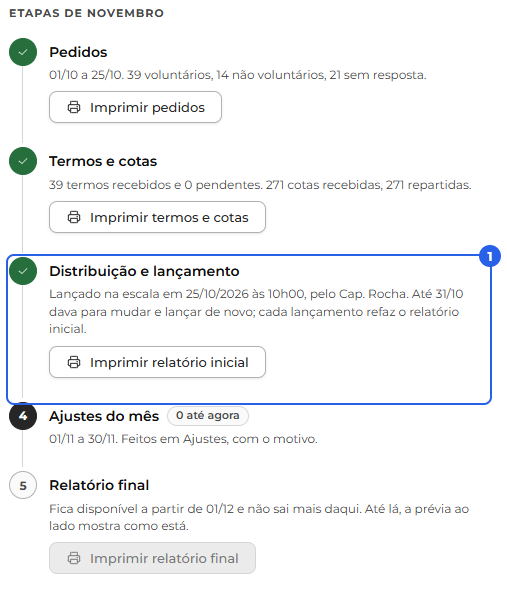
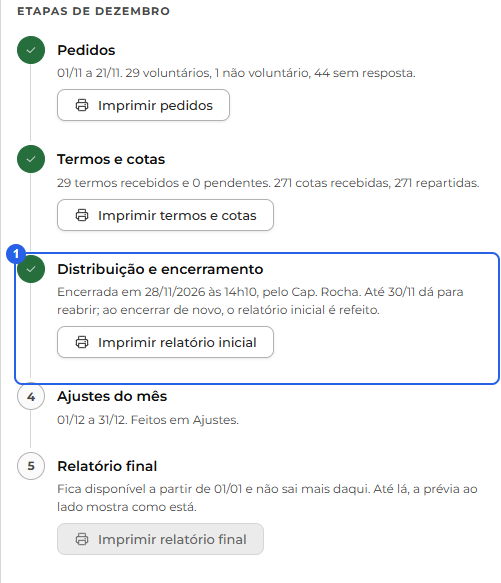
1

diff --git a/paginas/manual.html b/paginas/manual.html
@@ -98,7 +98,7 @@
                 <li class="manual-admin"><a class="lista-item lista-item--clicavel manual-item manual-item--sub" href="#extra-cotas">Pedidos, termos e cotas</a></li>
                 <li class="manual-admin"><a class="lista-item lista-item--clicavel manual-item manual-item--sub" href="#extra-distribuir">Distribuir a extra do mês</a></li>
                 <li class="manual-admin"><a class="lista-item lista-item--clicavel manual-item manual-item--sub" href="#extra-painel">O painel do dia</a></li>
-                <li class="manual-admin"><a class="lista-item lista-item--clicavel manual-item manual-item--sub" href="#extra-lancar">Lançar na escala e ajustar</a></li>
+                <li class="manual-admin"><a class="lista-item lista-item--clicavel manual-item manual-item--sub" href="#extra-lancar">Lançar na escala, encerrar e ajustar</a></li>
                 <li class="manual-admin"><a class="lista-item lista-item--clicavel manual-item manual-item--sub" href="#extra-relatorios">Relatórios</a></li>
               </ul>
             </li>
@@ -2057,7 +2057,7 @@
 
               <div class="manual-admin manual-zona-admin">
                 <h3 id="extra-organizar">Organizar o mês <span class="manual-selo-admin">Apenas administradores</span></h3>
-                <p>A aba <strong>Organizar o mês</strong> aparece para o administrador da companhia, inclusive o de um pelotão, e vale para a companhia inteira; ela fica só no computador. Ela guia o mês em <strong>cinco passos</strong>, na barra: <strong>Pedidos</strong>, <strong>Cotas</strong>, <strong>Distribuição</strong>, <strong>Ajustes</strong> e <strong>Relatórios</strong>. O número fica verde no passo feito e escuro no passo da vez. À direita, o menu <strong>Ações</strong> traz o que o passo aberto faz; o que ainda não pode ser feito fica apagado, com o motivo escrito embaixo. A <strong>Legenda</strong> resume as regras de cada passo.</p>
+                <p>A aba <strong>Organizar o mês</strong> aparece para o administrador da companhia, inclusive o de um pelotão, e vale para a companhia inteira; ela fica só no computador. Ela guia o mês em <strong>cinco passos</strong>, na barra: <strong>Pedidos</strong>, <strong>Cotas</strong>, <strong>Distribuição</strong>, <strong>Ajustes</strong> e <strong>Relatórios</strong>. O número fica verde no passo feito e escuro no passo da vez. À direita, ficam os botões do que o passo aberto faz; o que ainda não pode ser feito fica apagado, e a nota ou o rodapé da tela dizem por quê. A <strong>Legenda</strong> resume as regras de cada passo.</p>
                 <figure class="manual-figura">
                   <img src="manual/imagens/extra-passos.png" width="542" height="57" alt="Os cinco passos do mês na barra: Pedidos e Cotas feitos, com o número verde (1), e a Distribuição, o passo da vez, com o número escuro (2)." />
                   <figcaption>
@@ -2068,13 +2068,13 @@
                   </figcaption>
                 </figure>
                 <p>Na aba <strong>Extras do mês</strong>, o administrador vê também a distribuição que ainda não foi lançada, com o aviso "O mês ainda está em distribuição e não foi lançado. As datas podem mudar até o lançamento.".</p>
-                <p><strong>Os meses de janeiro a setembro de 2026.</strong> A escala desses meses não está no sistema; deles ficaram guardados só os pedidos e as cotas que cada voluntário recebeu. Eles servem só para ver quanto cada um pediu e recebeu. O Organizar o mês abre nas <strong>Cotas</strong>: o total da companhia é a soma do que cada um recebeu, e cada voluntário mostra a fila, quanto pediu, o atendimento nos 12 meses antes e quanto recebeu, sem nada para mudar. Nos <strong>Pedidos</strong> fica só a lista dos voluntários, com as cotas que pediram. A <strong>Distribuição</strong>, os <strong>Ajustes</strong> e os <strong>Relatórios</strong> dizem "Mês antes da escala no sistema.". Não há Ações, Legenda nem Salvar nesses meses. Quem pediu naquele mês e hoje é oficial também aparece, só para ver.</p>
+                <p><strong>Os meses de janeiro a setembro de 2026.</strong> A escala desses meses não está no sistema; deles ficaram guardados só os pedidos e as cotas que cada voluntário recebeu. Eles servem só para ver quanto cada um pediu e recebeu. O Organizar o mês abre nas <strong>Cotas</strong>: o total da companhia é a soma do que cada um recebeu, e cada voluntário mostra a fila, quanto pediu, o atendimento nos 12 meses antes e quanto recebeu, sem nada para mudar. Nos <strong>Pedidos</strong> fica só a lista dos voluntários, com as cotas que pediram. A <strong>Distribuição</strong>, os <strong>Ajustes</strong> e os <strong>Relatórios</strong> dizem "Mês antes da escala no sistema.". Não há os botões do passo, a Legenda nem o Salvar nesses meses. Quem pediu naquele mês e hoje é oficial também aparece, só para ver.</p>
 
                 <h3 id="extra-cotas">Pedidos, termos e cotas <span class="manual-selo-admin">Apenas administradores</span></h3>
                 <p><strong>1 Pedidos.</strong> A linha do alto resume o mês: o prazo, quantos responderam, quantos são voluntários, quantos não querem e quantos estão sem resposta. O <strong>Prazo do pedido</strong> tem <strong>Abre em</strong>, <strong>Fecha em</strong> e <strong>Avisar quem não respondeu</strong> (quantos dias antes de fechar), e o pedido sempre fecha antes de o mês começar.</p>
                 <p>Em <strong>Mínimo de dias "Quero"</strong>, o <strong>Exigir mínimo?</strong> diz se o mês exige um número de dias. Com <strong>Não</strong>, o resto some e cada voluntário marca quantos quiser. Com <strong>Sim</strong>, <strong>Todos os voluntários</strong> é esse número, de 1 a 5 dias. Em <strong>Exceções</strong>, que mostra quantas há e abre pela seta, <strong>Adicionar exceção</strong> dá um número diferente a um militar ou a <strong>Todo o efetivo administrativo</strong>. A exceção com o nome do militar vale antes da do efetivo administrativo, e ninguém precisa marcar mais do que os dias livres que tem. Cada mês tem o seu mínimo, e o mês novo começa com os valores do anterior. Quem já enviou o pedido não é afetado: o novo mínimo só conta se ele alterar o pedido. Com os pedidos fechados, o mínimo fica só para ler.</p>
-                <p>Ao lado ficam as três listas: <strong>Voluntários</strong>, <strong>Não querem</strong> e <strong>Sem resposta</strong>. Na lista de voluntários, cada militar mostra as cotas e os dias do mês: <strong>Quer</strong> e <strong>Não quer</strong> são os dias que ele marcou no pedido, e <strong>Não pode</strong> são os dias de folga, férias, licença, dispensa ou Litoral dele. Pare o mouse em cima de uma data de <strong>Não pode</strong> para ver o motivo. Em <strong>Sem resposta</strong>, quem não tem nenhum dia livre no mês aparece com <strong>Sem dia livre</strong> na coluna <strong>Não pode</strong>: ele não tem pedido a fazer, e esse mês fica fora da fila, mas continua contado entre os sem resposta na linha do alto. Marque o <strong>Termo</strong> de quem entregou o termo pelo eProtocolo. Sem o termo, o militar fica fora das cotas e da distribuição, e as extras que ele já tinha saem. O prazo, o mínimo e os termos só valem depois do <strong>Salvar</strong> do rodapé; o <strong>Cancelar</strong> desfaz o que ainda não foi salvo. <strong>Ações › Fechar os pedidos agora</strong> fecha o pedido antes do prazo.</p>
-                <p><strong>2 Cotas.</strong> Com os pedidos fechados, digite o total de cotas que a companhia recebeu. A companhia reparte <strong>entre todos</strong> (uma fila só, da companhia) ou <strong>por unidade</strong> (cada unidade com o seu total e a sua fila), como escolheu nos Ajustes, na aba Extrajornada (veja <strong>As regras da Extrajornada</strong>). Cada unidade é um bloco, com o <strong>Recebe</strong> de cada voluntário. <strong>Ações › Preencher pela sugestão</strong> reparte de forma justa: todos recebem o mesmo número, com no máximo 1 de diferença, ninguém recebe mais do que pediu, e a cota que sobra vai para quem foi menos atendido nos últimos 12 meses (no empate, o mais antigo); quem pediu 24 horas seguidas fica com 4 ou nenhuma. O <strong>Recebe</strong> de cada um você pode mudar, de zero a 10, mesmo acima do que ele pediu. Se der a quem pediu 24 horas seguidas um número que não fecha de 4 em 4 (menos de 4, ou 6, ou 10), o sistema coloca só os dias inteiros de 24 horas: o resto você coloca na Distribuição, e o Lançar só libera com todas colocadas. O total entregue não passa do recebido: se passar, o número fica vermelho e o Salvar trava.</p>
+                <p>Ao lado ficam as três listas: <strong>Voluntários</strong>, <strong>Não querem</strong> e <strong>Sem resposta</strong>. Na lista de voluntários, cada militar mostra as cotas e os dias do mês: <strong>Quer</strong> e <strong>Não quer</strong> são os dias que ele marcou no pedido, e <strong>Não pode</strong> são os dias de folga, férias, licença, dispensa ou Litoral dele. Pare o mouse em cima de uma data de <strong>Não pode</strong> para ver o motivo. Em <strong>Sem resposta</strong>, quem não tem nenhum dia livre no mês aparece com <strong>Sem dia livre</strong> na coluna <strong>Não pode</strong>: ele não tem pedido a fazer, e esse mês fica fora da fila, mas continua contado entre os sem resposta na linha do alto. Marque o <strong>Termo</strong> de quem entregou o termo pelo eProtocolo. Sem o termo, o militar fica fora das cotas e da distribuição, e as extras que ele já tinha saem. O prazo, o mínimo e os termos só valem depois do <strong>Salvar</strong> do rodapé; o <strong>Cancelar</strong> desfaz o que ainda não foi salvo. <strong>Fechar os pedidos agora</strong>, na barra, fecha o pedido antes do prazo; o botão aparece só enquanto os pedidos estão abertos.</p>
+                <p><strong>2 Cotas.</strong> Com os pedidos fechados, digite o total de cotas que a companhia recebeu. A companhia reparte <strong>entre todos</strong> (uma fila só, da companhia) ou <strong>por unidade</strong> (cada unidade com o seu total e a sua fila), como escolheu nos Ajustes, na aba Extrajornada (veja <strong>As regras da Extrajornada</strong>). Cada unidade é um bloco, com o <strong>Recebe</strong> de cada voluntário. <strong>Preencher pela sugestão</strong>, na barra, reparte de forma justa: todos recebem o mesmo número, com no máximo 1 de diferença, ninguém recebe mais do que pediu, e a cota que sobra vai para quem foi menos atendido nos últimos 12 meses (no empate, o mais antigo); quem pediu 24 horas seguidas fica com 4 ou nenhuma. O <strong>Recebe</strong> de cada um você pode mudar, de zero a 10, mesmo acima do que ele pediu. Se der a quem pediu 24 horas seguidas um número que não fecha de 4 em 4 (menos de 4, ou 6, ou 10), o sistema coloca só os dias inteiros de 24 horas: o resto você coloca na Distribuição, e o Lançar só libera com todas colocadas. O total entregue não passa do recebido: se passar, o número fica vermelho e o Salvar trava.</p>
                 <figure class="manual-figura manual-figura--cheia">
                   <img src="manual/imagens/extra-cotas.png" width="822" height="73" alt="O alto do passo Cotas: o total de cotas recebidas (1), com as cotas entregues, as que sobram e as que estão na escala, e a caixa Sugestão do sistema apenas com números pares, marcada (2)." />
                   <figcaption>
@@ -2124,7 +2124,7 @@
                   </figcaption>
                 </figure>
                 <p><strong>Pelo militar.</strong> Clique num voluntário da lista: embaixo do nome abrem as datas dele, cada uma com a barra de horário, e o calendário passa a mostrar só ele. Onde ele tem extra, fica o cartão dele; onde não tem, só a bolinha do pedido: verde no dia que quer, vermelha no que não quer e cinza sem preferência. O dia em que ele não pode fica apagado, com o motivo. Clique no cartão ou na bolinha para abrir a barra de horário embaixo dele e pôr ou tirar horas. Um novo clique no nome, um clique fora ou o Esc voltam ao mês inteiro.</p>
-                <p><strong>Ações › Preencher pela sugestão</strong> preenche o mês de uma vez, com as regras da companhia (veja <strong>As regras da Extrajornada</strong>, nos Ajustes). O cálculo testa todas as combinações e pode levar alguns minutos. Enquanto isso, a tela fica escurecida, com os passos do cálculo e o <strong>Cancelar</strong>; se ele não terminar, a tela oferece <strong>Tentar de novo</strong>. Ele nunca quebra as regras: só praça voluntária com termo, no dia em que ela está livre e não disse que não quer, sem passar da cota, sem 1 cota sozinha, sem 4 dias seguidos no quartel e com a bombeira só nos pelotões marcados. Para quem pediu 24 horas seguidas, ele só põe as 24 horas inteiras. Entre o que cabe, ele segue a ordem das regras: cobre primeiro a falta de gente (o vermelho antes do amarelo, na ordem dos pelotões; no mesmo pelotão, o dia que falta 2 antes do dia que falta 1), põe a extra só onde falta gente (a cota que não fecha falta fica para você), fora da cidade da companhia dá a extra inteira, de 24 horas, a quem é de outro pelotão (ele só quebra quando não há outro jeito), deixa cada um no seu pelotão (quem vai para outro é o mais moderno ou o da vez no rodízio), segue a fila ou a antiguidade e, por último, a balança: blocos de 24 horas, a extra colada ao serviço e o dia que o militar quer. As extras que <strong>você</strong> pôs ou mudou ficam travadas: a sugestão refaz só as do sistema. O <strong>Desfazer</strong> do rodapé volta a sugestão inteira de uma vez.</p>
+                <p><strong>Preencher pela sugestão</strong>, na barra, preenche o mês de uma vez, com as regras da companhia (veja <strong>As regras da Extrajornada</strong>, nos Ajustes). O cálculo testa todas as combinações e pode levar alguns minutos. Enquanto isso, a tela fica escurecida, com os passos do cálculo e o <strong>Cancelar</strong>; se ele não terminar, a tela oferece <strong>Tentar de novo</strong>. Ele nunca quebra as regras: só praça voluntária com termo, no dia em que ela está livre e não disse que não quer, sem passar da cota, sem 1 cota sozinha, sem 4 dias seguidos no quartel e com a bombeira só nos pelotões marcados. Para quem pediu 24 horas seguidas, ele só põe as 24 horas inteiras. Entre o que cabe, ele segue a ordem das regras: cobre primeiro a falta de gente (o vermelho antes do amarelo, na ordem dos pelotões; no mesmo pelotão, o dia que falta 2 antes do dia que falta 1), põe a extra só onde falta gente (a cota que não fecha falta fica para você), fora da cidade da companhia dá a extra inteira, de 24 horas, a quem é de outro pelotão (ele só quebra quando não há outro jeito), deixa cada um no seu pelotão (quem vai para outro é o mais moderno ou o da vez no rodízio), segue a fila ou a antiguidade e, por último, a balança: blocos de 24 horas, a extra colada ao serviço e o dia que o militar quer. As extras que <strong>você</strong> pôs ou mudou ficam travadas: a sugestão refaz só as do sistema. Dá para usar mesmo com mudança ainda não salva (por exemplo, pôr alguém fixo e depois rodar): o que está na tela fica, e só o <strong>Salvar</strong> grava. O <strong>Desfazer</strong> do rodapé volta a sugestão inteira de uma vez. Depois de a distribuição ser encerrada, ou de o mês começar, o botão some ou fica apagado.</p>
 
                 <h3 id="extra-painel">O painel do dia <span class="manual-selo-admin">Apenas administradores</span></h3>
                 <p>Clique num dia do calendário para abrir o painel do dia à direita. No alto, a <strong>Cobertura do dia</strong> mostra as barras sem extra e com extra; pela seta, ela abre o <strong>relatório do dia</strong>, que diz quem foi posto, por quê, o que ainda falta e os erros da escala que a extra não resolve, como alguém sem função. Embaixo do título ficam as abas <strong>Extrajornada</strong> e <strong>Funções</strong>: a Funções mostra a escala do dia por posto e função, como no painel do dia da Escala, só para ver; a aba escolhida continua quando você abre outro dia. Embaixo vêm os grupos: <strong>Neste dia</strong>, <strong>Querem este dia</strong>, <strong>Sem preferência</strong>, <strong>Não querem este dia</strong> e <strong>Indisponíveis</strong>, com o motivo, como "Serviço" ou "Férias". Quem está de serviço e marcou Quero naquele dia aparece como "Serviço, quer este dia": ele só pode tirar a extra depois de fazer a troca. A folga do banco de horas não impede a extra, nem no próprio pelotão. Quem está de folga ou é pontual só numa parte do dia aparece disponível, com "De serviço das 20h às 08h. A extra só nas outras horas." embaixo do nome e essas horas em cinza na barra.</p>
@@ -2162,20 +2162,21 @@
                   </figcaption>
                 </figure>
 
-                <h3 id="extra-lancar">Lançar na escala e ajustar <span class="manual-selo-admin">Apenas administradores</span></h3>
-                <p><strong>Ações › Lançar na escala e encerrar</strong> abre a conferência à direita e, com <strong>Lançar e encerrar</strong>, põe as extras do mês na escala. Cada extra vira serviço, conta na cobertura e entra na distribuição da unidade onde o militar tira a extra; o sistema põe as extras de todos os dias e refaz a escala uma vez, do primeiro dia mudado em diante, só nos pelotões em que a extra mudou, porque o rodízio conta quem trabalhou: os 7 primeiros dias na hora e o resto sozinho. Os outros pelotões ficam como estavam, sem ninguém trocar de função. O lançamento só acontece com todas as cotas colocadas nas datas e antes de o mês começar. Depois dele, a Distribuição fica só para ver.</p>
+                <h3 id="extra-lancar">Lançar na escala, encerrar e ajustar <span class="manual-selo-admin">Apenas administradores</span></h3>
+                <p><strong>Lançar na escala</strong>, o botão escuro da barra (2), abre a conferência à direita e, com <strong>Lançar na escala</strong>, põe as extras do mês na escala. Cada extra vira serviço, conta na cobertura e entra na distribuição da unidade onde o militar tira a extra; o sistema põe as extras de todos os dias e refaz a escala uma vez, do primeiro dia mudado em diante, só nos pelotões em que a extra mudou, porque o rodízio conta quem trabalhou: os 7 primeiros dias na hora e o resto sozinho. Os outros pelotões ficam como estavam, sem ninguém trocar de função. Dá para lançar com tudo salvo e antes de o mês começar, mesmo com cota faltando: o que falta aparece em amarelo na conferência. Depois de lançada, a Distribuição continua mudando, e cada <strong>Salvar e enviar para a escala</strong> vai direto para a escala.</p>
                 <figure class="manual-figura">
-                  <img src="manual/imagens/extra-acoes.png" width="268" height="174" alt="O menu Ações do passo Distribuição: o Lançar na escala e encerrar apagado, com o motivo embaixo (1), e o Reabrir a distribuição (2)." />
+                  <img src="manual/imagens/extra-acoes.png" width="383" height="58" alt="Na barra da Distribuição, o Preencher pela sugestão (1) e o Lançar na escala, o botão escuro (2)." />
                   <figcaption>
                     <ol class="manual-chamadas">
-                      <li>Lançar na escala e encerrar, apagado enquanto falta cota</li>
-                      <li>Reabrir a distribuição</li>
+                      <li>Preencher pela sugestão</li>
+                      <li>Lançar na escala, que depois vira Encerrar a distribuição</li>
                     </ol>
                   </figcaption>
                 </figure>
-                <p><strong>Ações › Reabrir a distribuição</strong> volta a liberar a Distribuição, até o mês começar. Enquanto ela está reaberta, a escala continua com o que foi lançado; o novo lançamento leva o que mudou.</p>
-                <p><strong>4 Ajustes.</strong> Depois do lançamento, as mudanças se fazem nos Ajustes, na mesma tela da Distribuição. Clique em <strong>Salvar e enviar para a escala</strong>: a mudança vai direto para a escala, que é refeita do dia mudado em diante (os 7 primeiros dias na hora, o resto sozinho), fica registrada com o que era, o que ficou e quem fez, e o militar recebe um aviso no sino. Os ajustes vão até 7 dias atrás: o dia mais antigo fica só para ver. Nos Ajustes, a cor de cada dia e a barra "com extra" são as da Escala de verdade; na Distribuição, antes de lançar, elas são uma previsão, que já considera a CNH de quem dirige e o ideal de cada posto. Os mesmos ajustes também se fazem pela Escala: veja <strong>Editar a extra pela Escala</strong>.</p>
-                <p><strong>As cotas que faltam distribuir.</strong> Se, depois do lançamento, um militar fica com menos cotas nas datas do que recebeu, o sistema avisa o administrador da companhia em três lugares: a nota vermelha na Escala, embaixo da barra do mês (1); a mesma nota no alto da Distribuição e dos Ajustes; e uma linha em <strong>Pendências</strong>, no <strong>Para corrigir</strong>. Na Escala, a nota aparece em Mês, Militares e Colunas, só no mês que está na tela, e só avisa: para resolver, use os Ajustes ou a aba Extrajornada do painel do dia. A linha das Pendências leva direto aos Ajustes do mês, com o militar já em foco quando é um só. O <strong>X</strong> (2) esconde a nota até você recarregar a página ou entrar nela de novo; antes disso, ela só volta se o número mudar. No celular, a linha das Pendências só informa, porque o Organizar o mês não existe lá.</p>
+                <p>Depois de lançada, o botão escuro vira <strong>Encerrar a distribuição</strong>. Ele só liga com tudo salvo e com todas as cotas nas datas; enquanto falta alguma, a nota amarela no alto diz quantas. Ao encerrar, a distribuição desse momento vira o relatório inicial, a Distribuição fica só para ver e as mudanças passam a ser feitas nos Ajustes. Se ninguém encerrar, o sistema faz sozinho na virada do mês: lança, se ainda não foi lançada, e encerra. Com cota faltando, ela fica aberta, com o aviso vermelho, até as cotas estarem todas nas datas.</p>
+                <p>Encerrada, o botão vira <strong>Reabrir a distribuição</strong>, até o mês começar. A Distribuição volta a mudar e a escala continua como está; ao encerrar de novo, a distribuição desse momento vira o relatório inicial.</p>
+                <p><strong>4 Ajustes.</strong> Depois de encerrar a distribuição, as mudanças se fazem nos Ajustes, na mesma tela da Distribuição. Clique em <strong>Salvar e enviar para a escala</strong>: a mudança vai direto para a escala, que é refeita do dia mudado em diante (os 7 primeiros dias na hora, o resto sozinho), fica registrada com o que era, o que ficou e quem fez, e o militar recebe um aviso no sino. Os ajustes vão até 7 dias atrás: o dia mais antigo fica só para ver. Nos Ajustes, a cor de cada dia e a barra "com extra" são as da Escala de verdade; na Distribuição, antes de lançar, elas são uma previsão, que já considera a CNH de quem dirige e o ideal de cada posto. Os mesmos ajustes também se fazem pela Escala: veja <strong>Editar a extra pela Escala</strong>.</p>
+                <p><strong>As cotas que faltam distribuir.</strong> Se, a partir de 3 dias antes de o mês começar, um militar está com menos cotas nas datas do que recebeu, lançada ou não a distribuição, o sistema avisa o administrador da companhia em três lugares: a nota vermelha na Escala, embaixo da barra do mês (1); a mesma nota no alto da Distribuição e dos Ajustes; e uma linha em <strong>Pendências</strong>, no <strong>Para corrigir</strong>. Na Escala, a nota aparece em Mês, Militares e Colunas, só no mês que está na tela, e só avisa: para resolver, use os Ajustes ou a aba Extrajornada do painel do dia. A linha das Pendências leva direto aos Ajustes do mês, com o militar já em foco quando é um só. O <strong>X</strong> (2) esconde a nota até você recarregar a página ou entrar nela de novo; antes disso, ela só volta se o número mudar. No celular, a linha das Pendências só informa, porque o Organizar o mês não existe lá.</p>
                 <figure class="manual-figura manual-figura--cheia">
                   <img src="manual/imagens/escala-cotas-aviso.png" width="688" height="137" alt="A nota vermelha embaixo da barra do mês, na Escala, com as cotas que faltam (1) e o X que esconde a nota (2)." />
                   <figcaption>
@@ -2197,9 +2198,9 @@
                 </figure>
 
                 <h3 id="extra-relatorios">Relatórios <span class="manual-selo-admin">Apenas administradores</span></h3>
-                <p><strong>5 Relatórios.</strong> À esquerda, as etapas do mês em ordem: <strong>Pedidos</strong>, <strong>Termos e cotas</strong>, <strong>Distribuição e lançamento</strong>, <strong>Ajustes do mês</strong> e <strong>Relatório final</strong>. A etapa feita ganha a marca verde e a de agora fica escura. À direita, a prévia do relatório de ajustes mostra quem mudou desde o lançamento, o que era, o que ficou e quem ajustou.</p>
+                <p><strong>5 Relatórios.</strong> À esquerda, as etapas do mês em ordem: <strong>Pedidos</strong>, <strong>Termos e cotas</strong>, <strong>Distribuição e encerramento</strong>, <strong>Ajustes do mês</strong> e <strong>Relatório final</strong>. A etapa feita ganha a marca verde e a de agora fica escura. À direita, a prévia do relatório de ajustes mostra quem mudou desde o encerramento, o que era, o que ficou e quem ajustou.</p>
                 <figure class="manual-figura">
-                  <img src="manual/imagens/extra-relatorios.png" width="507" height="605" alt="As etapas do mês no passo Relatórios, com o botão Imprimir relatório inicial na etapa Distribuição e lançamento (1)." />
+                  <img src="manual/imagens/extra-relatorios.png" width="501" height="583" alt="As etapas do mês no passo Relatórios, com o botão Imprimir relatório inicial na etapa Distribuição e encerramento (1)." />
                   <figcaption>
                     <ol class="manual-chamadas">
                       <li>Uma etapa e o Imprimir do relatório dela</li>

diff --git a/paginas/programador.html b/paginas/programador.html
@@ -885,7 +885,7 @@
               <ul class="guia-regras">
                 <li><code>.botao</code> (em <code>geral-botao.css</code>): altura mínima <code>--botao-altura</code>, letra <code>--botao-fonte</code>, espaço entre ícone e texto <code>--botao-gap</code>, folga lateral <code>--botao-padding</code>, raio <code>--raio-medio</code>. Usar sempre as variáveis, nunca o número.</li>
                 <li><strong>Sombra:</strong> o botão com moldura (comum, <code>--primario</code>, <code>--perigo</code>, <code>--quadrado</code>) leva <code>--sombra-bloco</code>, um relevo mínimo. Sem moldura (<code>--icone</code>, <code>--texto</code>, <code>.botao-discreto</code>) e desligado ficam sem sombra. No escuro ela quase não aparece, de propósito: lá o botão fica plano e a borda faz o papel.</li>
-                <li><code>--primario</code>: o escuro (<code>--fundo-contraste</code> + <code>--texto-invertido</code>); <strong>no máximo um por barra</strong>, e <strong>só para a ação do militar</strong>: ação de administrador é sempre branca e, ao lado da do militar, leva o selo ADM (ver Barra de controles e Selo e avatar). <strong>Exceção:</strong> o <strong>Aceitar</strong> da faixa "Esperando a sua resposta" pode ser escuro mesmo com outro botão escuro na página (ver Faixa "Esperando a sua resposta").</li>
+                <li><code>--primario</code>: o escuro (<code>--fundo-contraste</code> + <code>--texto-invertido</code>); <strong>no máximo um por barra</strong>, e <strong>só para a ação do militar</strong>: ação de administrador é sempre branca e, ao lado da do militar, leva o selo ADM (ver Barra de controles e Selo e avatar). <strong>Exceções:</strong> o <strong>Aceitar</strong> da faixa "Esperando a sua resposta" pode ser escuro mesmo com outro botão escuro na página (ver Faixa "Esperando a sua resposta"); e, numa aba que só o administrador vê, sem ação do militar ao lado, o <strong>próximo passo</strong> dela é o escuro, um só na barra (26/11/2026; a Distribuição da Extrajornada: Lançar na escala e depois Encerrar a distribuição).</li>
                 <li><code>--perigo</code>: destrutivo <strong>sólido</strong>, fundo <code>--erro</code> + texto <code>--texto-invertido</code>, hover e foco <code>--erro-hover</code> (o mesmo padrão do primário; ex.: "Excluir do sistema").</li>
                 <li><code>--icone</code>: quadrado <strong>sem moldura</strong>, só o ícone; fundo <code>--fundo-medio</code> no hover. Exige <code>aria-label</code>.</li>
                 <li><code>--quadrado</code>: quadrado só de ícone <strong>com a moldura e o fundo do botão comum</strong>, para ficar ao lado de um botão de texto sem destoar; 32 por 32; exige <code>aria-label</code> e dica (ex.: as ferramentas da barra de controles).</li>
